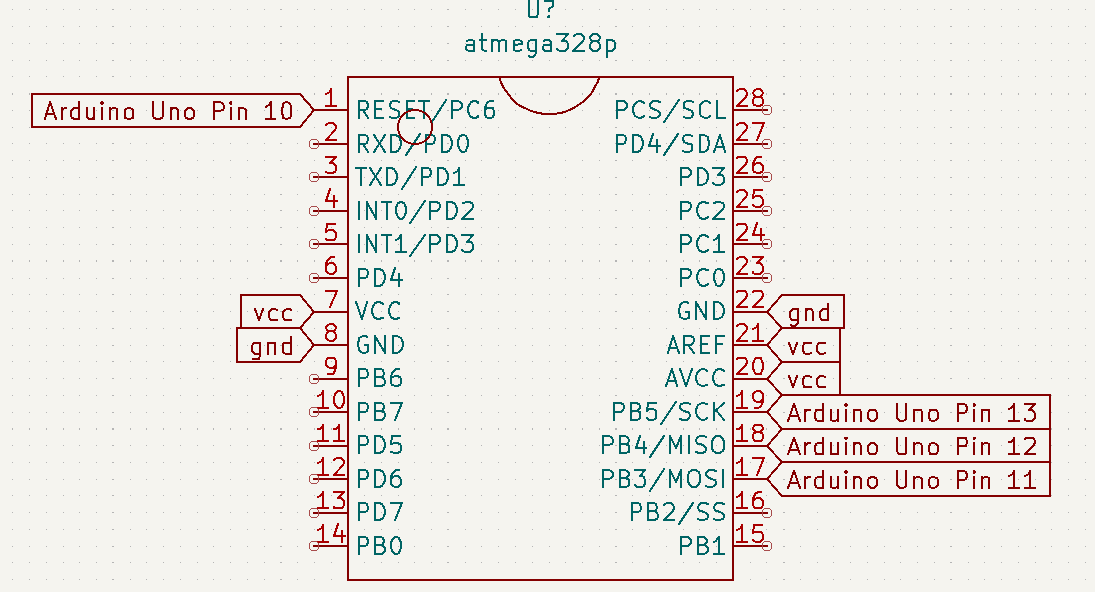
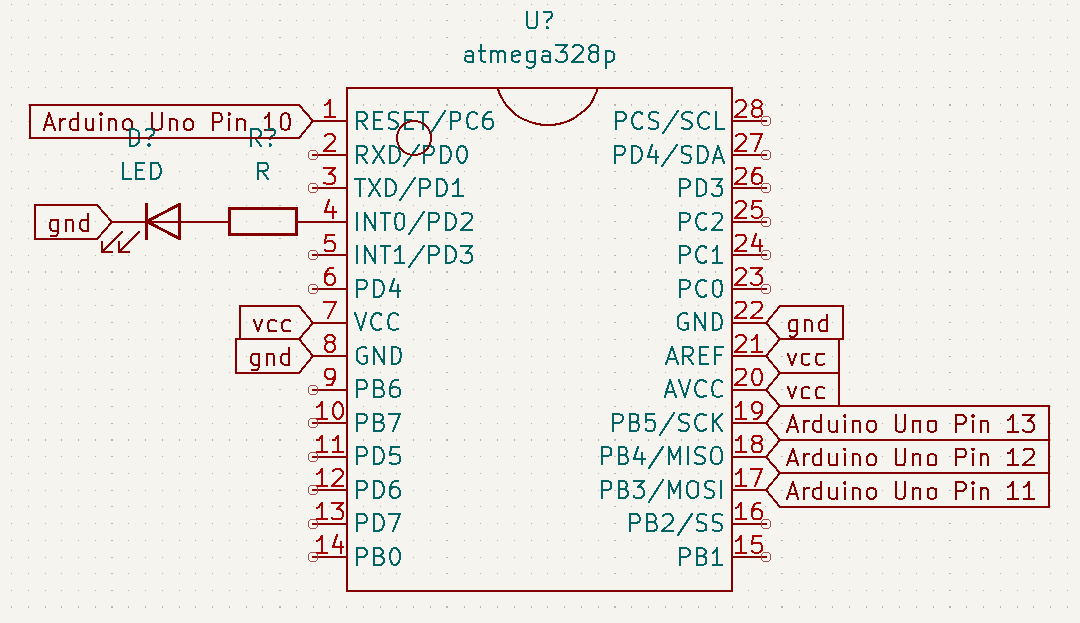
first release readme atemga minimal

Changed region(s): [[0.0, 0.0, 0.9778, 1.0]]

diff --git a/3_ATMEGA328p_minimal_circuit/README.md b/3_ATMEGA328p_minimal_circuit/README.md
@@ -35,4 +35,5 @@ Uploading a blinky program to your ATMega328p chip
 2. Make sure to observe upload settings as stated in the **previous steps 6 and 7**.
 3. **DO NOT PRESS UPLOAD**
 4. In the toolbar, go to *Sketch* and press **Upload using Programmer**.
-5. Everything should work fine.
+5. Everything should work fine. You can remove all other pin connections and just put the VCC and GND pins back.
+6. You now have a programming circuit and an ATMega328p chip you can use on you personal project. Have fun!
